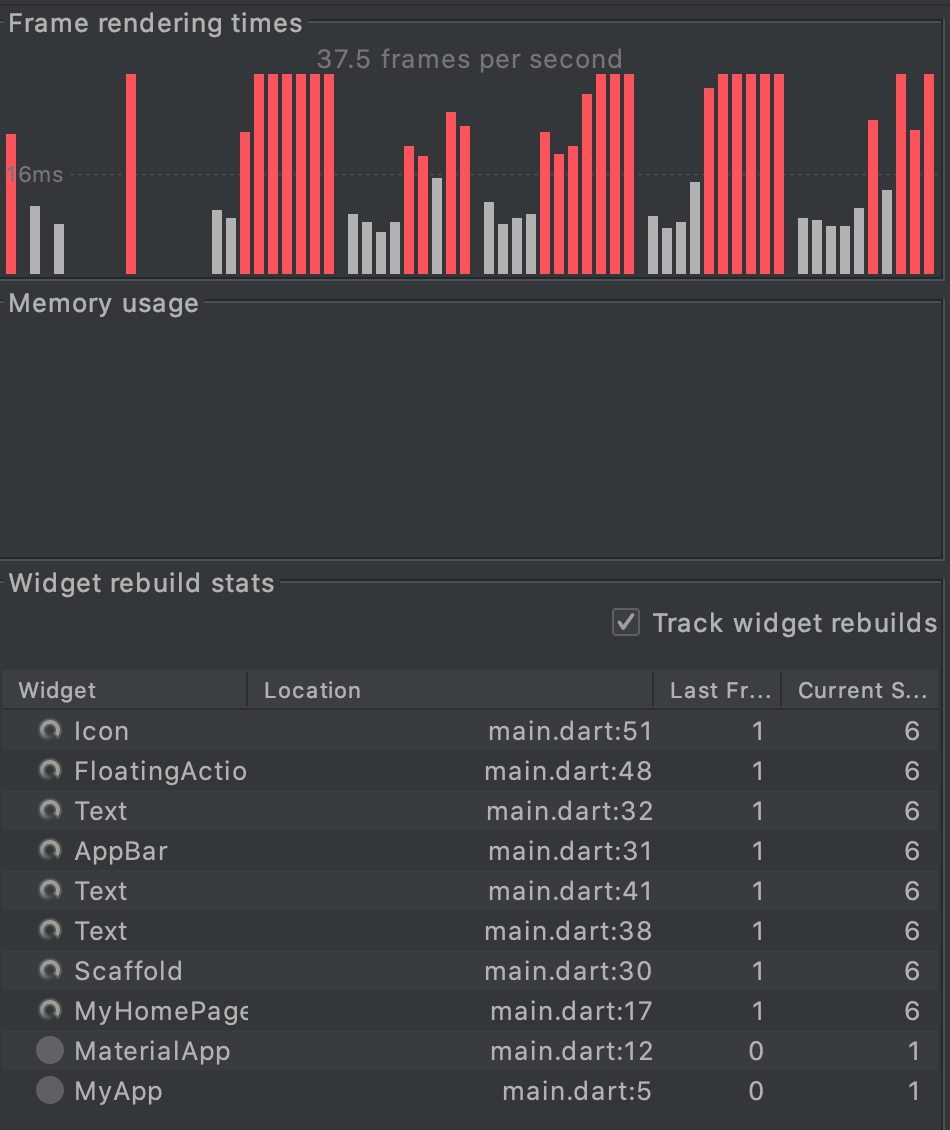
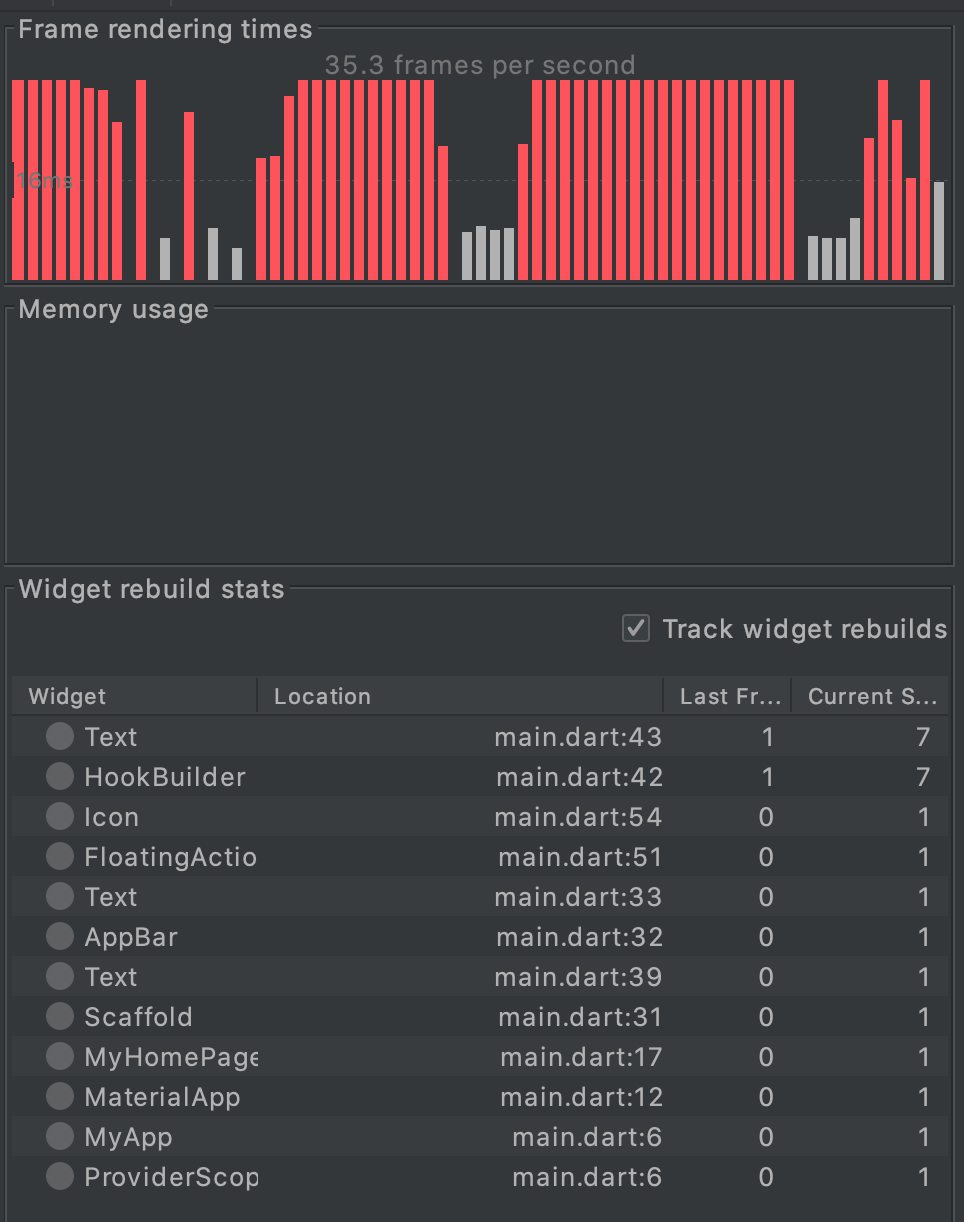
flutter_hooks(useProvider) + riverpod(StateProvider) Style

diff --git a/lib/main.dart b/lib/main.dart
@@ -1,8 +1,9 @@
 import 'package:flutter/material.dart';
 import 'package:flutter_hooks/flutter_hooks.dart';
+import 'package:hooks_riverpod/hooks_riverpod.dart';
 
 void main() {
-  runApp(MyApp());
+  runApp(ProviderScope(child: MyApp()));
 }
 
 class MyApp extends StatelessWidget {
@@ -18,6 +19,8 @@ class MyApp extends StatelessWidget {
   }
 }
 
+final counter = StateProvider((_) => 0);
+
 class MyHomePage extends HookWidget {
   MyHomePage({Key key, this.title}) : super(key: key);
 
@@ -25,7 +28,6 @@ class MyHomePage extends HookWidget {
 
   @override
   Widget build(BuildContext context) {
-    final counter = useState(0);
     return Scaffold(
       appBar: AppBar(
         title: Text(title),
@@ -37,15 +39,17 @@ class MyHomePage extends HookWidget {
             Text(
               'You have pushed the button this many times:',
             ),
-            Text(
-              '${counter.value}',
-              style: Theme.of(context).textTheme.headline4,
+            HookBuilder(
+              builder: (context) => Text(
+                '${useProvider(counter).state}',
+                style: Theme.of(context).textTheme.headline4,
+              ),
             ),
           ],
         ),
       ),
       floatingActionButton: FloatingActionButton(
-        onPressed: () => counter.value++,
+        onPressed: () => context.read(counter).state++,
         tooltip: 'Increment',
         child: Icon(Icons.add),
       ), // This trailing comma makes auto-formatting nicer for build methods.

diff --git a/README.md b/README.md
@@ -2,7 +2,7 @@
 
 Flutter Architecture Sample Repository
 
-## flutter_hooks + useState
-* 圧倒的なコード量の少なさ
-* とはいえ書くのは簡単になるが、全面書き換えなのでそれはどうなの？っていう...
+## flutter_hooks + useProvider + StateProvider
+* あいかわらずの圧倒的なコード量の少なさ
+* HookBuilderで局所化も簡単
 <img src="screenshot.png"/>
